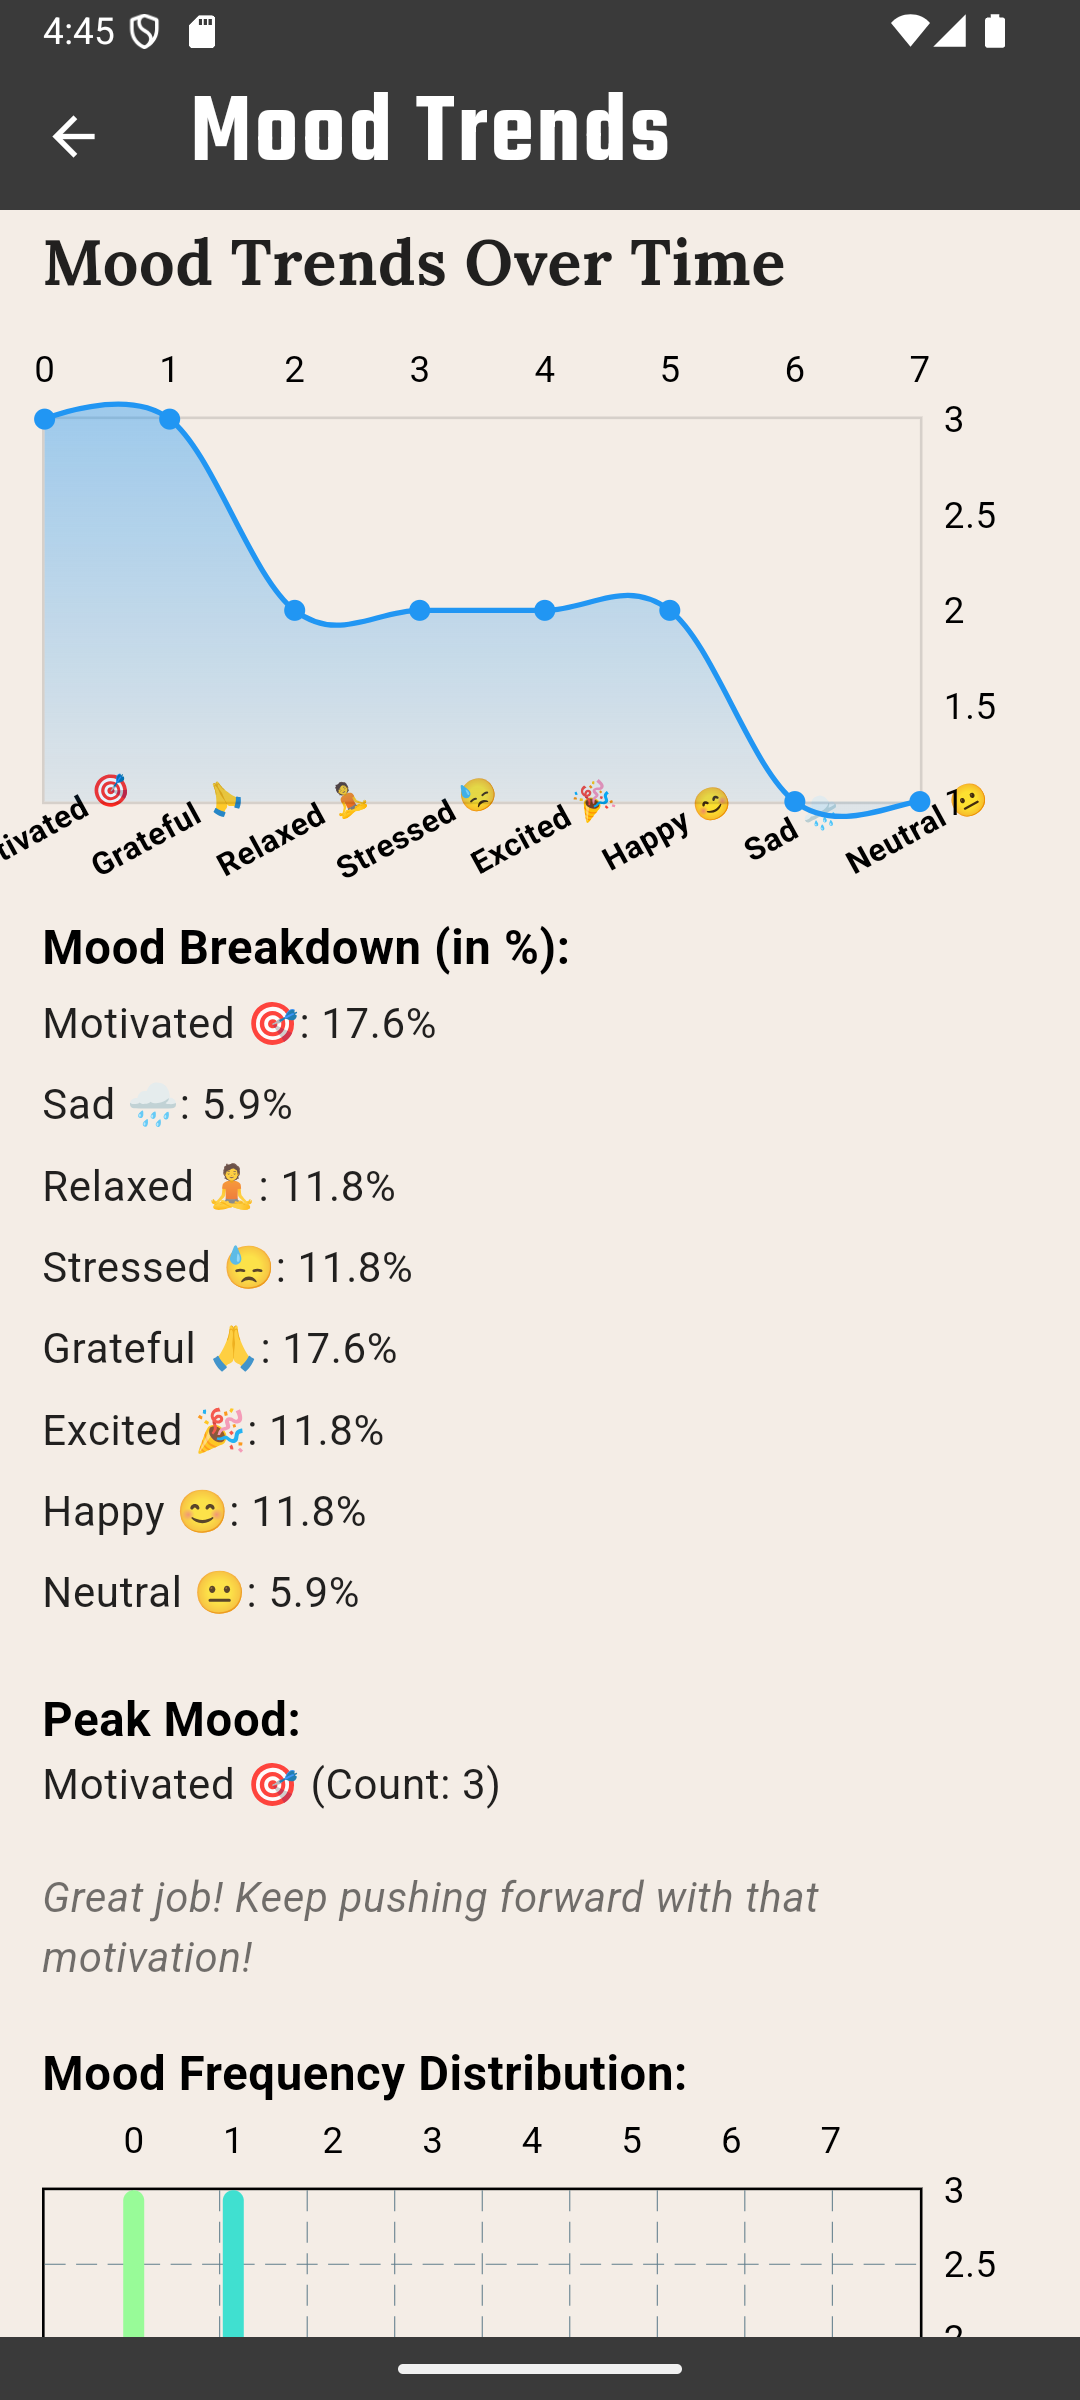
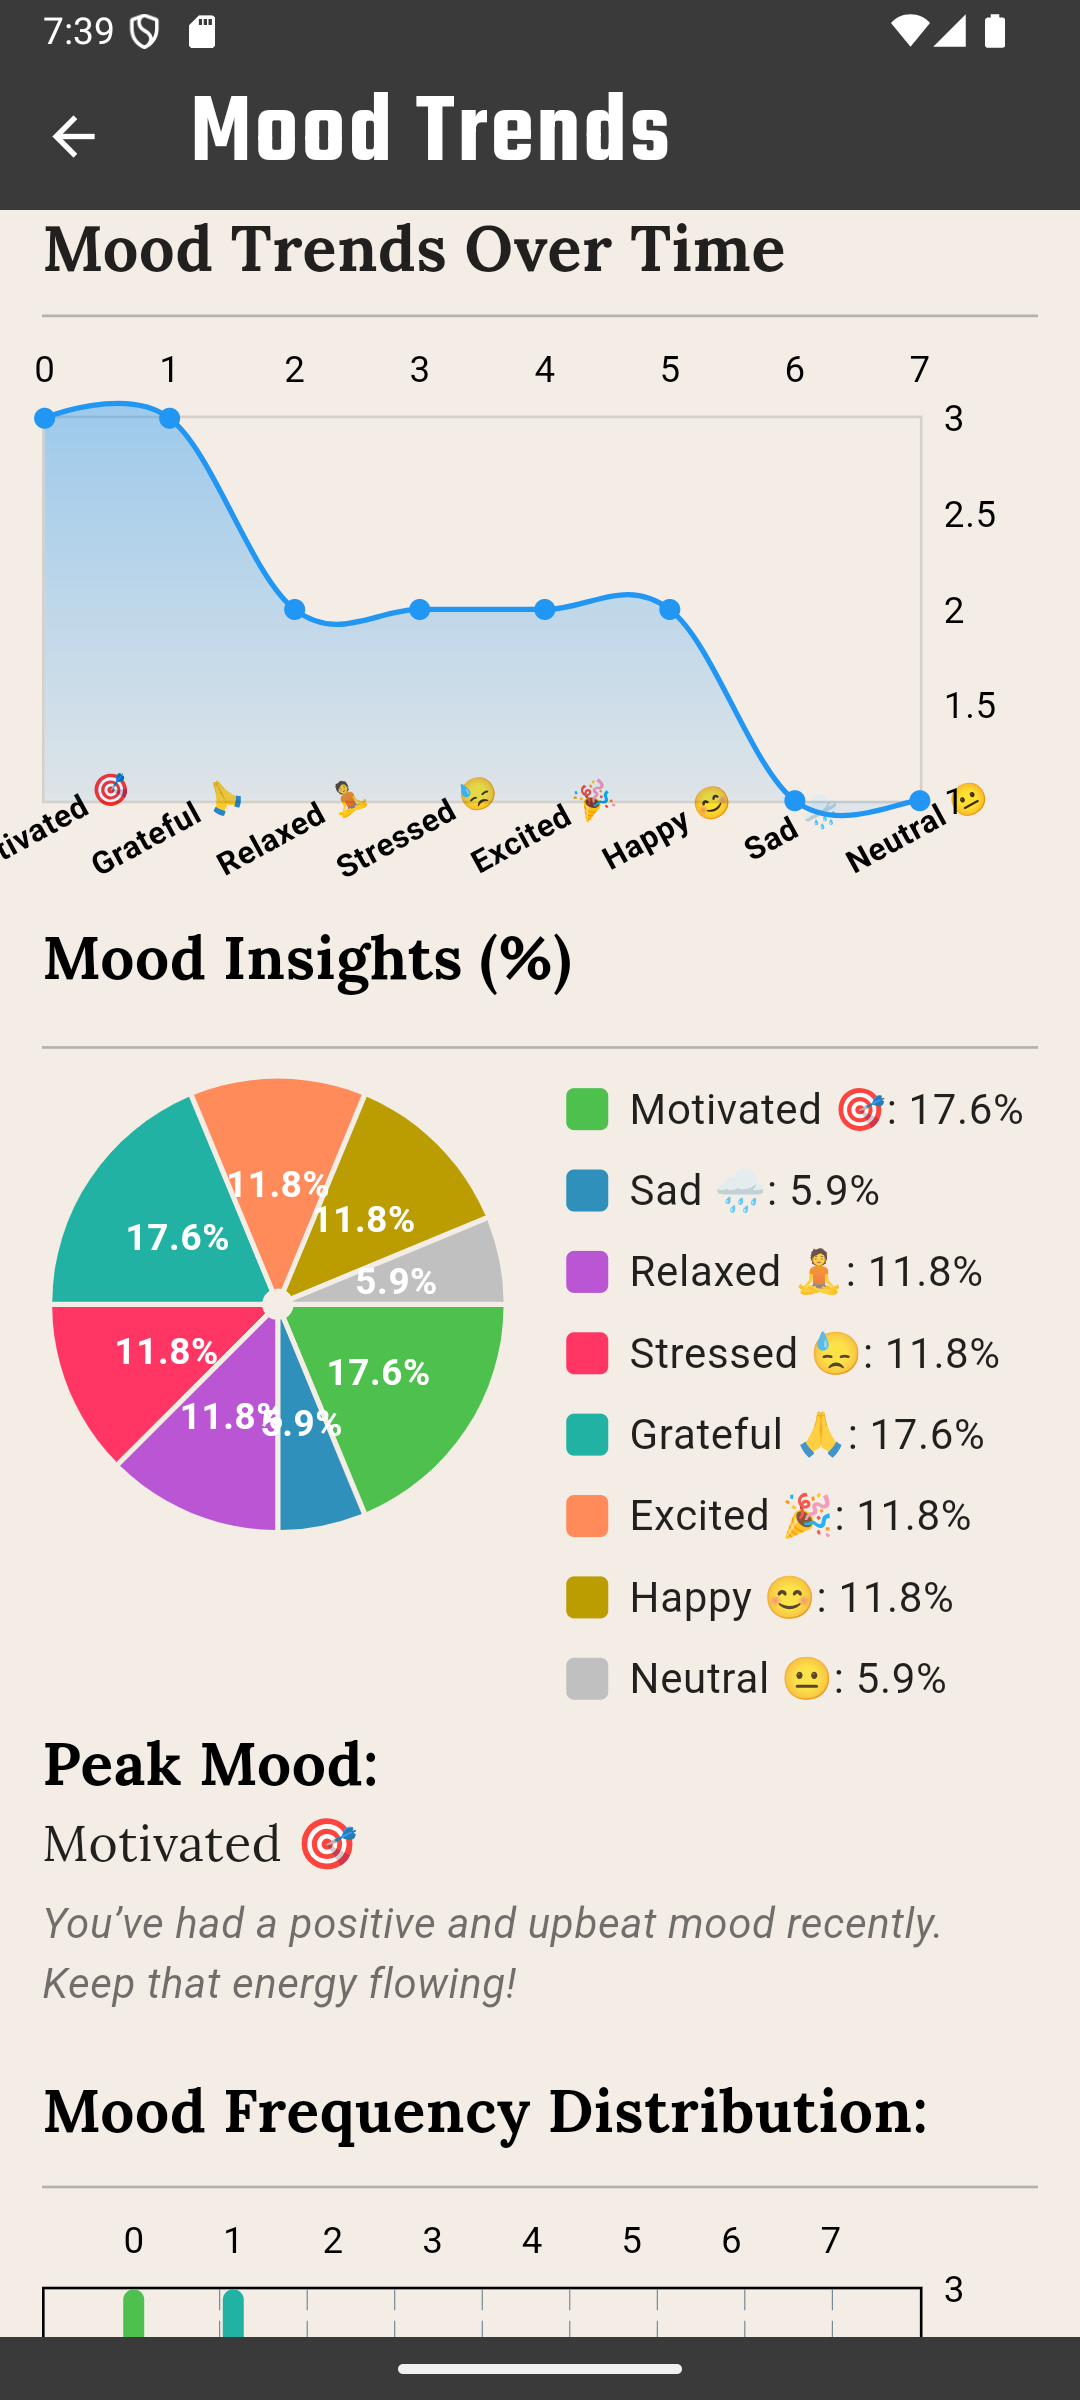
Added more mood insights and trends

diff --git a/finalproject/lib/journal_insights_page.dart b/finalproject/lib/journal_insights_page.dart
@@ -9,27 +9,21 @@ class JournalInsightsPage extends StatelessWidget {
 
   @override
   Widget build(BuildContext context) {
-    // Calculate mood frequencies and insights
     Map<String, int> moodFrequency = _calculateMoodFrequency(entries);
     var totalEntries = entries.isNotEmpty ? entries.length : 1;
 
-    // Calculate mood percentages
     Map<String, double> moodPercentages = _calculateMoodPercentages(moodFrequency, totalEntries);
 
-    // Sort moods by frequency
     var sortedMoods = moodFrequency.entries.toList()
       ..sort((a, b) => b.value.compareTo(a.value));
 
-    // Prepare data for the charts
     List<BarChartGroupData> barChartData = _prepareBarChartData(sortedMoods);
     List<FlSpot> lineChartData = _prepareLineChartData(sortedMoods);
 
-    // Peak mood and personalized message
     String peakMood = sortedMoods.isNotEmpty ? sortedMoods.first.key : 'No data';
     int peakMoodCount = sortedMoods.isNotEmpty ? sortedMoods.first.value : 0;
     String personalizedMessage = _getPersonalizedMessage(peakMood);
 
-    // Detect dark mode
     bool isDarkMode = Theme.of(context).brightness == Brightness.dark;
 
     return Scaffold(
@@ -50,6 +44,7 @@ class JournalInsightsPage extends StatelessWidget {
           child: Column(
             crossAxisAlignment: CrossAxisAlignment.start,
             children: [
+              // Mood Trends Title with an elegant divider
               Text(
                 'Mood Trends Over Time',
                 style: TextStyle(
@@ -59,7 +54,8 @@ class JournalInsightsPage extends StatelessWidget {
                   color: isDarkMode ? Colors.white : Colors.black87,
                 ),
               ),
-              const SizedBox(height: 12),
+              const SizedBox(height: 1),
+              Divider(color: isDarkMode ? Colors.white30 : Colors.black26), // Divider
 
               // Line Chart
               AspectRatio(
@@ -108,7 +104,7 @@ class JournalInsightsPage extends StatelessWidget {
                         ),
                       ),
                       leftTitles: AxisTitles(
-                        sideTitles: SideTitles(showTitles: false), // Remove left axis titles
+                        sideTitles: SideTitles(showTitles: false),
                       ),
                     ),
                     borderData: FlBorderData(show: true, border: Border.all(color: isDarkMode ? Colors.white : Colors.black12)),
@@ -118,49 +114,105 @@ class JournalInsightsPage extends StatelessWidget {
               ),
               const SizedBox(height: 20),
 
-              // Mood Breakdown
+              // Mood Insights Section with improved separation
               Text(
-                'Mood Breakdown (in %):',
+                'Mood Insights (%)',
                 style: TextStyle(
-                  fontSize: 18,
+                  fontSize: 23,
                   fontWeight: FontWeight.bold,
+                  fontFamily: 'Lora',
                   color: isDarkMode ? Colors.white : Colors.black,
                 ),
               ),
-              if (moodPercentages.isNotEmpty)
-                ...moodPercentages.entries.map((mood) {
-                  return Padding(
-                    padding: const EdgeInsets.symmetric(vertical: 4.0),
-                    child: Text(
-                      '${mood.key}: ${mood.value.toStringAsFixed(1)}%',
-                      style: TextStyle(
-                        fontSize: 16,
-                        color: isDarkMode ? Colors.white : Colors.black87,
+              const SizedBox(height: 10),
+              Divider(color: isDarkMode ? Colors.white30 : Colors.black26), // Divider
+
+              Row(
+                crossAxisAlignment: CrossAxisAlignment.start,
+                children: [
+                  // Pie Chart
+                  Expanded(
+                    child: AspectRatio(
+                      aspectRatio: 1,
+                      child: PieChart(
+                        PieChartData(
+                          sections: moodPercentages.entries.map((mood) {
+                            return PieChartSectionData(
+                              color: _getMoodColor(mood.key),
+                              value: mood.value,
+                              title: '${mood.value.toStringAsFixed(1)}%',
+                              radius: 80,
+                              titleStyle: const TextStyle(
+                                fontSize: 14,
+                                fontWeight: FontWeight.bold,
+                                color: Colors.white,
+                              ),
+                            );
+                          }).toList(),
+                          sectionsSpace: 2,
+                          centerSpaceRadius: 6,
+                        ),
                       ),
                     ),
-                  );
-                }).toList(),
-              const SizedBox(height: 20),
+                  ),
+                  const SizedBox(width: 20),
 
-              // Peak Mood
+                  // Mood Legend with better separation
+                  Expanded(
+                    child: Column(
+                      crossAxisAlignment: CrossAxisAlignment.start,
+                      children: moodPercentages.entries.map((mood) {
+                        return Padding(
+                          padding: const EdgeInsets.symmetric(vertical: 4.0),
+                          child: Row(
+                            children: [
+                              Container(
+                                width: 16,
+                                height: 16,
+                                margin: const EdgeInsets.only(right: 8.0),
+                                decoration: BoxDecoration(
+                                  color: _getMoodColor(mood.key),
+                                  borderRadius: BorderRadius.circular(3),
+                                ),
+                              ),
+                              Text(
+                                '${mood.key}: ${mood.value.toStringAsFixed(1)}%',
+                                style: TextStyle(
+                                  fontSize: 16,
+                                  color: isDarkMode ? Colors.white : Colors.black87,
+                                ),
+                              ),
+                            ],
+                          ),
+                        );
+                      }).toList(),
+                    ),
+                  ),
+                ],
+              ),
+              const SizedBox(height: 0.1),
+
+              // Peak Mood Section with more emphasis
               Text(
                 'Peak Mood:',
                 style: TextStyle(
-                  fontSize: 18,
+                  fontSize: 23,
                   fontWeight: FontWeight.bold,
+                  fontFamily: 'Lora',
                   color: isDarkMode ? Colors.white : Colors.black,
                 ),
               ),
               Text(
-                '$peakMood (Count: $peakMoodCount)',
+                '$peakMood',
                 style: TextStyle(
-                  fontSize: 16,
+                  fontSize: 19,
+                  fontFamily: 'Lora',
                   color: isDarkMode ? Colors.white : Colors.black87,
                 ),
               ),
-              const SizedBox(height: 20),
+              const SizedBox(height: 5),
 
-              // Personalized Message
+              // Personalized Message with emphasis
               Text(
                 personalizedMessage,
                 style: TextStyle(
@@ -171,15 +223,19 @@ class JournalInsightsPage extends StatelessWidget {
               ),
               const SizedBox(height: 20),
 
-              // Bar Chart
+              // Mood Frequency Distribution with a divider before
               Text(
                 'Mood Frequency Distribution:',
                 style: TextStyle(
-                  fontSize: 18,
+                  fontSize: 23,
                   fontWeight: FontWeight.bold,
+                  fontFamily: 'Lora',
                   color: isDarkMode ? Colors.white : Colors.black,
                 ),
               ),
+              const SizedBox(height: 5),
+              Divider(color: isDarkMode ? Colors.white30 : Colors.black26), // Divider
+
               AspectRatio(
                 aspectRatio: 1.7,
                 child: BarChart(
@@ -208,7 +264,7 @@ class JournalInsightsPage extends StatelessWidget {
                         ),
                       ),
                       leftTitles: AxisTitles(
-                        sideTitles: SideTitles(showTitles: false), // Remove left axis titles
+                        sideTitles: SideTitles(showTitles: false),
                       ),
                     ),
                     borderData: FlBorderData(show: true),
@@ -283,19 +339,19 @@ class JournalInsightsPage extends StatelessWidget {
   Color _getMoodColor(String mood) {
     switch (mood.toLowerCase()) {
       case 'happy 😊':
-        return const Color(0xFFFFD700); // Soft yellow
+        return const Color(0xFFBB9C01); // Soft yellow
       case 'sad 🌧':
-        return const Color(0xFF87CEEB); // Soft blue
+        return const Color(0xFF2F91BB); // Soft blue
       case 'motivated 🎯':
-        return const Color(0xFF98FB98); // Pale green
+        return const Color(0xFF4DC04D); // Pale green
       case 'excited 🎉':
-        return const Color(0xFFFFA07A); // Light coral
+        return const Color(0xFFFF8B5B); // Light coral
       case 'relaxed 🧘':
         return const Color(0xFFBA55D3); // Orchid
       case 'grateful 🙏':
-        return const Color(0xFF40E0D0); // Turquoise
+        return const Color(0xFF21B2A3); // Turquoise
       case 'stressed 😓':
-        return const Color(0xFFFF69B4); // Hot pink
+        return const Color(0xFFFF3564); // Hot pink
       default:
         return const Color(0xFFC0C0C0); // Light gray
     }
@@ -309,17 +365,17 @@ class JournalInsightsPage extends StatelessWidget {
       case 'happy 😊':
         return 'Keep spreading that joy! Your positivity is contagious!';
       case 'motivated 🎯':
-        return 'Great job! Keep pushing forward with that motivation!';
+        return 'You’ve had a positive and upbeat mood recently. Keep that energy flowing!';
       case 'excited 🎉':
         return 'Your excitement is fueling your progress! Keep it up!';
       case 'sad 🌧':
-        return 'It’s okay to feel down sometimes. Take care of yourself and reach out if you need support.';
+        return 'It seems you’ve been feeling a bit down lately. Remember, better days are ahead!';
       case 'relaxed 🧘':
         return 'Enjoy the peace and calm you’ve found. Take this time to recharge!';
       case 'grateful 🙏':
         return 'Gratitude is a powerful force. Keep appreciating the little things!';
       default:
-        return 'Keep going! Every mood is part of your unique journey!';
+        return 'You’ve had a mix of moods recently. Keep going strong!';
     }
   }
 }
